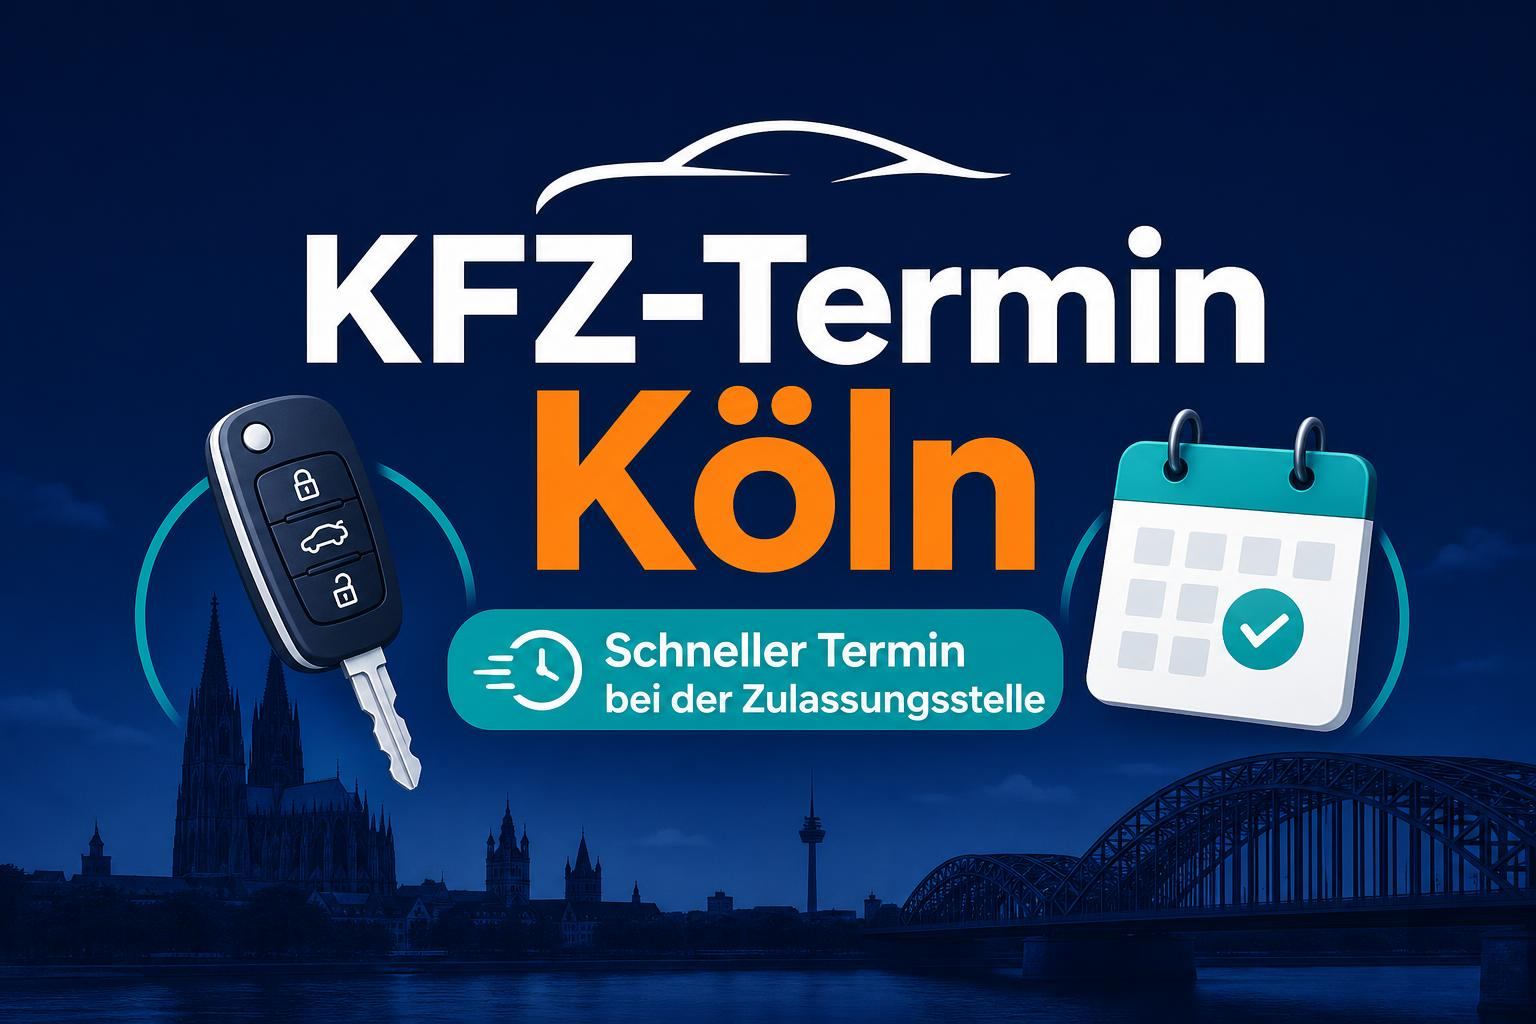
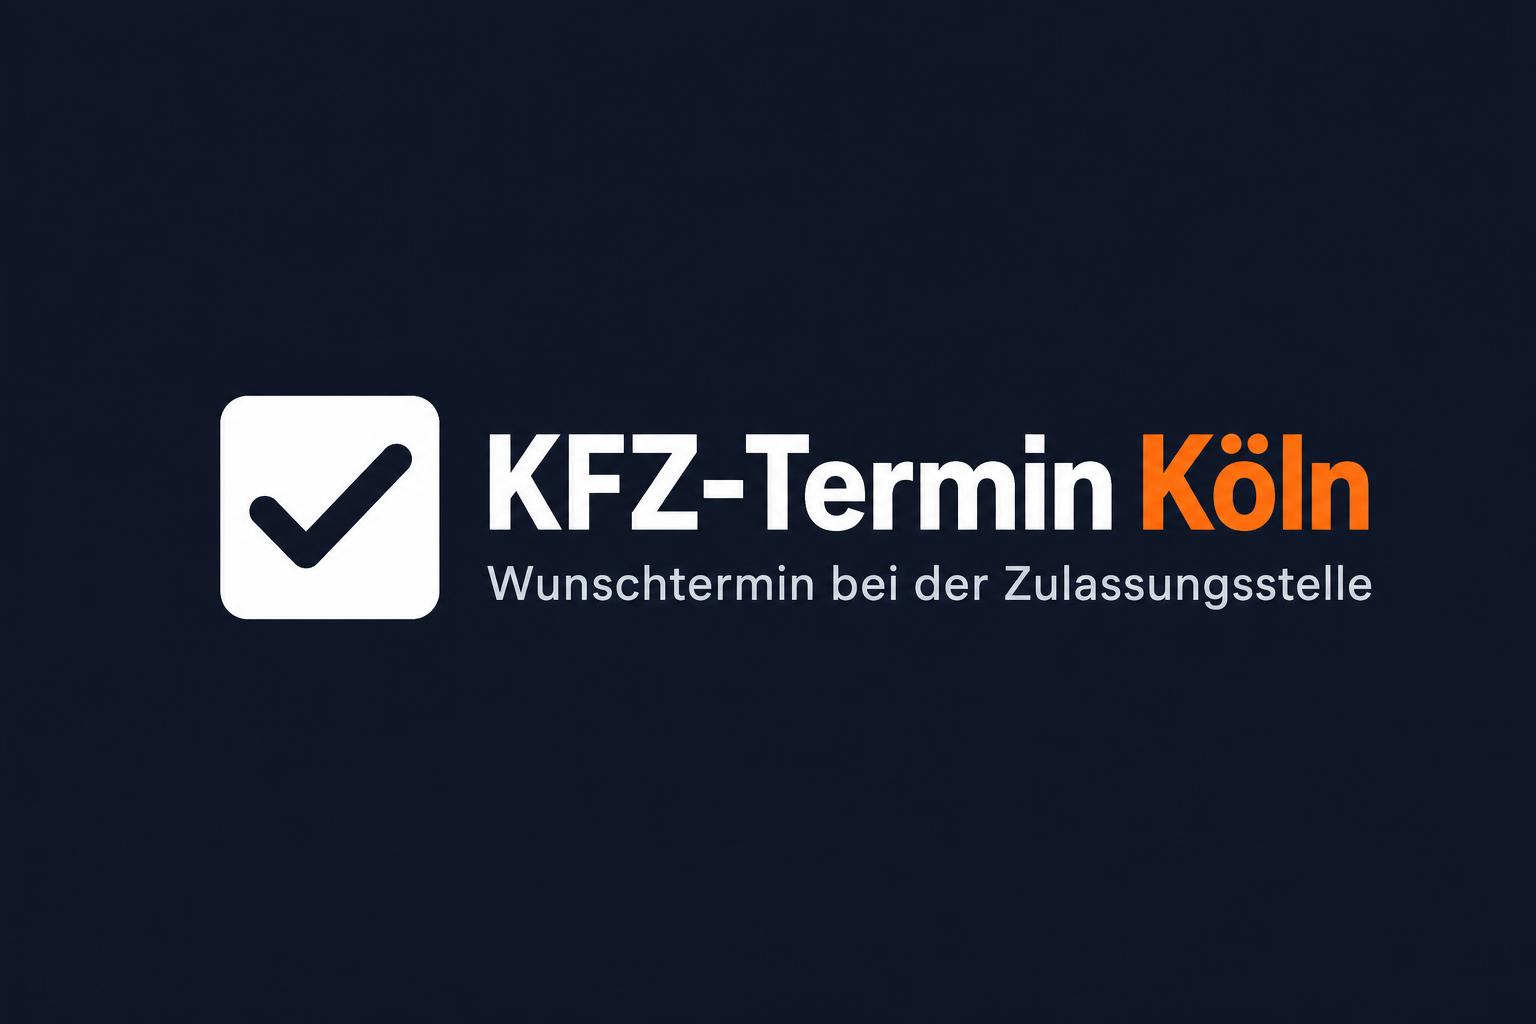
Changes

diff --git a/src/routes/__root.tsx b/src/routes/__root.tsx
@@ -89,7 +89,7 @@ export const Route = createRootRouteWithContext<{ queryClient: QueryClient }>()(
       { property: "og:image", content: "https://kfz-termin.online/og-image.jpg" },
       { property: "og:image:width", content: "1200" },
       { property: "og:image:height", content: "630" },
-      { property: "og:image:alt", content: "KFZ-Termin Köln – Automatische Terminbuchung bei der Kölner Zulassungsstelle" },
+      { property: "og:image:alt", content: "KFZ-Termin Köln – Logo" },
       { name: "twitter:image", content: "https://kfz-termin.online/og-image.jpg" },
       { name: "twitter:card", content: "summary_large_image" },
     ],

diff --git a/.lovable/plan.md b/.lovable/plan.md
@@ -1,48 +1,41 @@
-# Audit: Zahlungen & Buchungsbestätigungen für alle Methoden
+## Ziel
 
-Ziel: Sicherstellen, dass jede in Stripe aktivierte Zahlungsart (Karte, PayPal, Klarna, Apple/Google Pay, Sofort/Giropay etc.) eine bezahlte Buchung **garantiert** finalisiert und beide Mails verschickt — auch wenn der Kunde die Success-Seite nie öffnet oder die Zahlung asynchron erfolgt.
+Cleanes Markenbild (Logo + Schriftzug "KFZ-Termin Köln") als Link-Vorschaubild + zwei Download-Varianten.
 
-## Was geprüft wird (nur lesend, keine Code-Änderungen)
+## Was ich mache
 
-### 1. Stripe-Webhook-Konfiguration
-- Webhook im Stripe-Dashboard zeigt auf `https://kfz-termin.online/api/public/stripe/webhook`
-- Abonnierte Events enthalten **mindestens**:
-  - `checkout.session.completed` (sofortige Methoden: Karte, Apple/Google Pay, PayPal)
-  - `checkout.session.async_payment_succeeded` (verzögerte Methoden: Klarna, SEPA, Sofort, Giropay-Nachfolger)
-  - `checkout.session.async_payment_failed` (für Fehlerlog/Monitoring, optional)
-- `STRIPE_WEBHOOK_SECRET` ist gesetzt (✓ laut Secrets-Liste)
-- Recent Deliveries: alle Calls geben 200 zurück
+### 1. OG-Bild für Link-Vorschau (`public/og-image.jpg`, 1200×630)
 
-### 2. Webhook-Handler-Code (`src/routes/api/public/stripe/webhook.ts`)
-- Verifiziert Signatur korrekt mit Raw-Body
-- Reagiert auf beide Event-Typen (`completed` + `async_payment_succeeded`) → ✓ bereits drin
-- Idempotenz: `finalizePaidBooking` setzt `confirmation_sent_at` → mehrfaches Feuern erzeugt keine Duplikat-Mails
+- **Hintergrund:** Markenblau `#1c2233` (vollflächig).
+- **Logo invertiert:** weißes abgerundetes Quadrat mit blauem Haken (`#1c2233`).
+- **Schriftzug daneben:** „KFZ-Termin **Köln**" in Weiß, „Köln" im Akzent-Orange wie im Header.
+- **Untertitel klein darunter:** „Wunschtermin bei der Zulassungsstelle".
+- Erzeugt mit `imagegen` (premium-Tier wegen Text-Lesbarkeit), Format JPG.
 
-### 3. Success-Page-Pfad (`confirmCheckoutSession`)
-- Wird beim Öffnen von `/buchung-erfolgreich` getriggert → sendet Mails sofort (bessere UX)
-- Aber: Funktioniert auch ohne, da Webhook die Quelle der Wahrheit ist
-- Race-Condition zwischen Webhook und Success-Page ist durch `confirmation_sent_at`-Check abgedeckt
+### 2. Download-Variante hell (`public/brand-kfz-termin-light.png`, 1200×630)
 
-### 4. Verifikation an echten Daten
-- Letzte ~10 Buchungen aus `bookings` prüfen: alle bezahlten haben `paid=true`, `confirmation_sent_at` gesetzt
-- `email_send_log` prüfen: für jede bezahlte Buchung existieren beide Logs (`booking-confirm-*` + `booking-internal-*`) mit Status `sent`
-- DLQ / Failed-Mails: keine offenen Fehler in den letzten 7 Tagen
+- **Weißer Hintergrund**, original Logo (dunkelblaues Quadrat, weißer Haken), dunkelblauer Text.
+- Für Print, E-Mail-Signatur, helle Hintergründe.
+- Abrufbar unter `https://kfz-termin.online/brand-kfz-termin-light.png`.
 
-### 5. Async-Zahlungen (Klarna, SEPA, Sofort)
-- Bei diesen wird der Checkout abgeschlossen, aber `payment_status` ist erst `unpaid`/`processing`
-- Erst `async_payment_succeeded` (Minuten bis Tage später) liefert `paid` — der Webhook MUSS dieses Event abonniert haben, sonst bleiben solche Buchungen ewig auf `unpaid`
-- Prüfung: Liste der abonnierten Events im Stripe-Dashboard
+### 3. Download-Variante dunkel (`public/brand-kfz-termin-dark.png`, 1200×630)
 
-## Was ich liefere
+- **Blauer Hintergrund** `#1c2233`, invertiertes Logo (weißes Quadrat, blauer Haken), weißer Text, „Köln" in Akzent-Orange.
+- Selbes Design wie das OG-Bild, aber als separate PNG-Datei zum Download.
+- Abrufbar unter `https://kfz-termin.online/brand-kfz-termin-dark.png`.
 
-Ein kurzer Report mit:
-- ✓/✗ für jeden der 5 Punkte oben
-- Ggf. exakte Liste fehlender Events im Webhook (mit copy-paste-fertiger Anleitung wie du sie in Stripe nachträgst)
-- Ggf. Liste von Buchungen, die "hängen" (bezahlt laut Stripe, aber nicht bei uns als `paid` markiert) und für die wir die Admin-Route nochmal triggern sollten
+### 4. Meta-Tag minimal angleichen
 
-## Was ich NICHT mache (außer du sagst es nochmal explizit)
-- Keine Code-Änderungen — der Webhook-Handler ist aktuell korrekt
-- Keine neuen Secrets
-- Kein Refactoring von `confirmCheckoutSession` oder `finalizePaidBooking`
+- In `src/routes/__root.tsx`: `og:image:alt` auf „KFZ-Termin Köln – Logo" aktualisieren.
+- `og:image`-Pfad bleibt `/og-image.jpg` — Datei wird einfach überschrieben.
 
-Falls beim Audit ein konkretes Problem auftaucht (z. B. `async_payment_succeeded` nicht abonniert), erstelle ich danach einen neuen Plan für den Fix.
+## Was ich NICHT ändere
+
+- Header/Menübar (nutzt weiterhin `mark.svg`).
+- Keine Änderungen an Pricing, Booking-Form, Mails oder Routen.
+
+## Hinweis nach dem Publish
+
+Facebook/LinkedIn/WhatsApp cachen Vorschaubilder tagelang. Nach dem Publish manuell refreshen:
+- **Facebook/Instagram/WhatsApp:** https://developers.facebook.com/tools/debug/
+- **LinkedIn:** https://www.linkedin.com/post-inspector/
